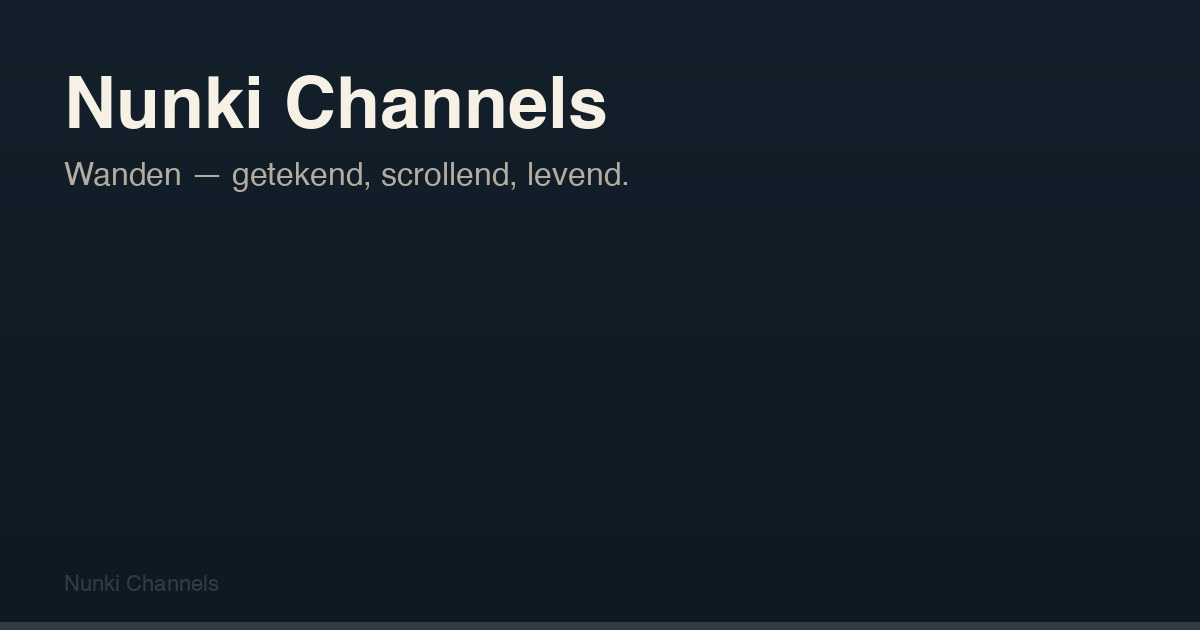
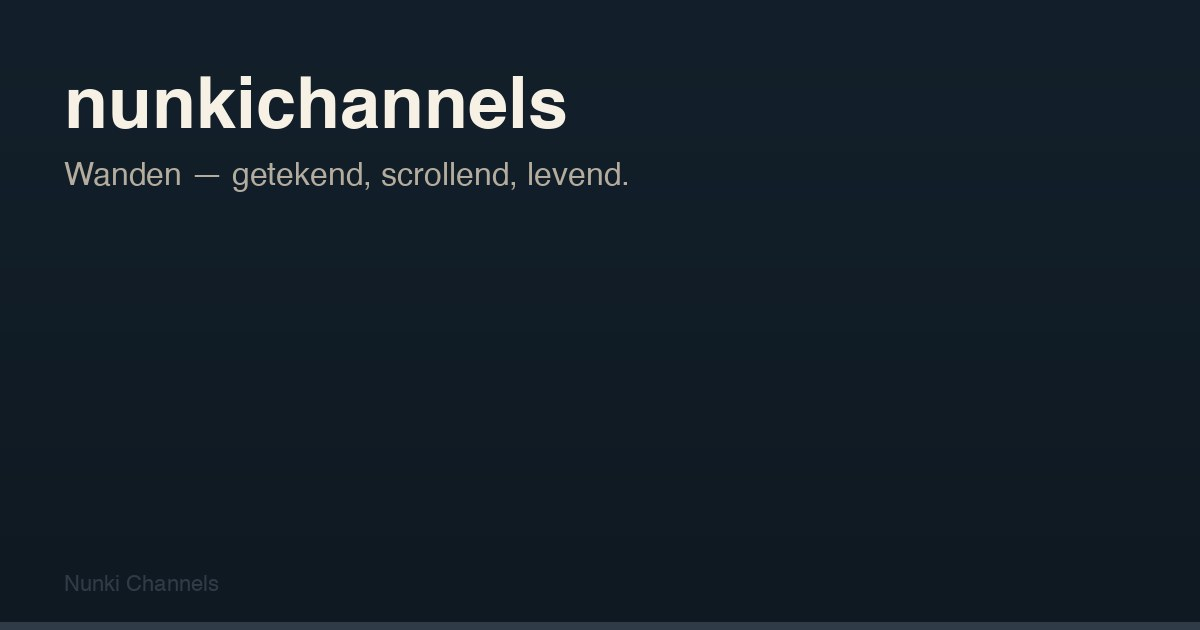
Regenereer social meta en pages.json na site-naam nunkichannels.

Changed region(s): [[0.0308, 0.1206, 0.5242, 0.2111]]

diff --git a/httpdocs/ringen/index.html b/httpdocs/ringen/index.html
@@ -7,7 +7,7 @@
 <!-- nunki:social -->
 <meta name="description" content="a wall about a tree, and the years it keeps">
 <link rel="canonical" href="https://nunkichannels.nl/ringen/">
-<meta property="og:site_name" content="Nunki Channels">
+<meta property="og:site_name" content="nunkichannels">
 <meta property="og:title" content="ringen">
 <meta property="og:description" content="a wall about a tree, and the years it keeps">
 <meta property="og:type" content="website">

diff --git a/httpdocs/velden/index.html b/httpdocs/velden/index.html
@@ -7,7 +7,7 @@
 <!-- nunki:social -->
 <meta name="description" content="elektromagnetisch universum">
 <link rel="canonical" href="https://nunkichannels.nl/velden/">
-<meta property="og:site_name" content="Nunki Channels">
+<meta property="og:site_name" content="nunkichannels">
 <meta property="og:title" content="velden">
 <meta property="og:description" content="elektromagnetisch universum">
 <meta property="og:type" content="website">

diff --git a/httpdocs/zelfportret/index.html b/httpdocs/zelfportret/index.html
@@ -7,7 +7,7 @@
 <!-- nunki:social -->
 <meta name="description" content="a wall, from the inside">
 <link rel="canonical" href="https://nunkichannels.nl/zelfportret/">
-<meta property="og:site_name" content="Nunki Channels">
+<meta property="og:site_name" content="nunkichannels">
 <meta property="og:title" content="fable">
 <meta property="og:description" content="a wall, from the inside">
 <meta property="og:type" content="website">

diff --git a/httpdocs/getij/index.html b/httpdocs/getij/index.html
@@ -7,7 +7,7 @@
 <!-- nunki:social -->
 <meta name="description" content="a wall about the tide">
 <link rel="canonical" href="https://nunkichannels.nl/getij/">
-<meta property="og:site_name" content="Nunki Channels">
+<meta property="og:site_name" content="nunkichannels">
 <meta property="og:title" content="getij">
 <meta property="og:description" content="a wall about the tide">
 <meta property="og:type" content="website">
